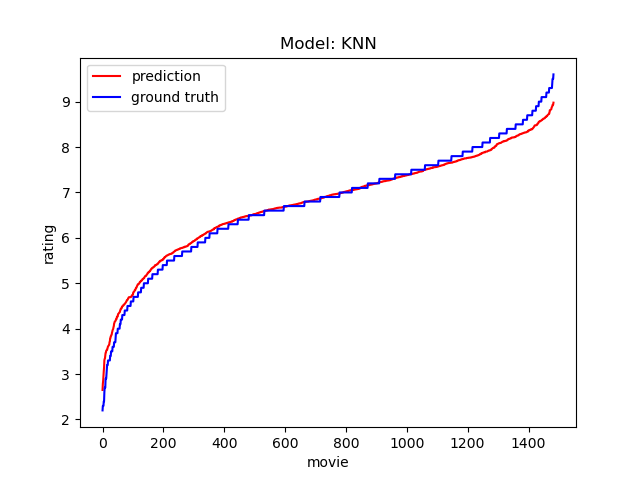
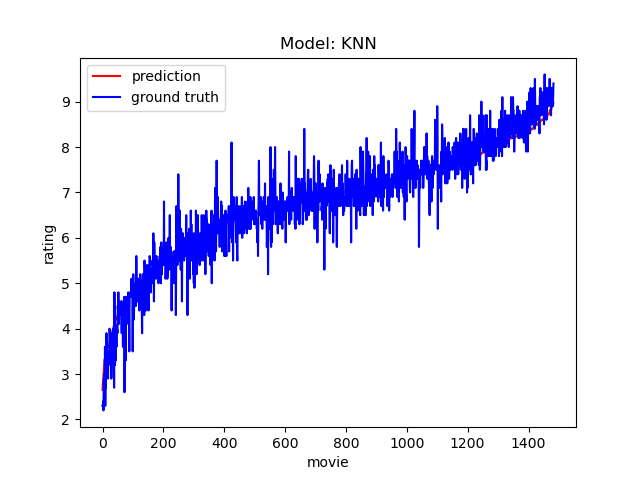
knn plot and fig 2

Changed region(s): [[0.1562, 0.1562, 0.875, 0.8438]]

diff --git a/model/knn.py b/model/knn.py
@@ -91,9 +91,10 @@ print("Test MSE: %f" % test_MSE)
 print("Test Score: %f" % test_score)
 
 # plot
+pred_arg = pred.argsort()
 pred.sort()
 truth = y_test.values
-truth.sort()
+truth = [truth[arg] for arg in pred_arg]
 N = [i for i in range(len(y_test))]
 plt.plot(N, pred, 'r')
 plt.plot(N, truth, 'b')
